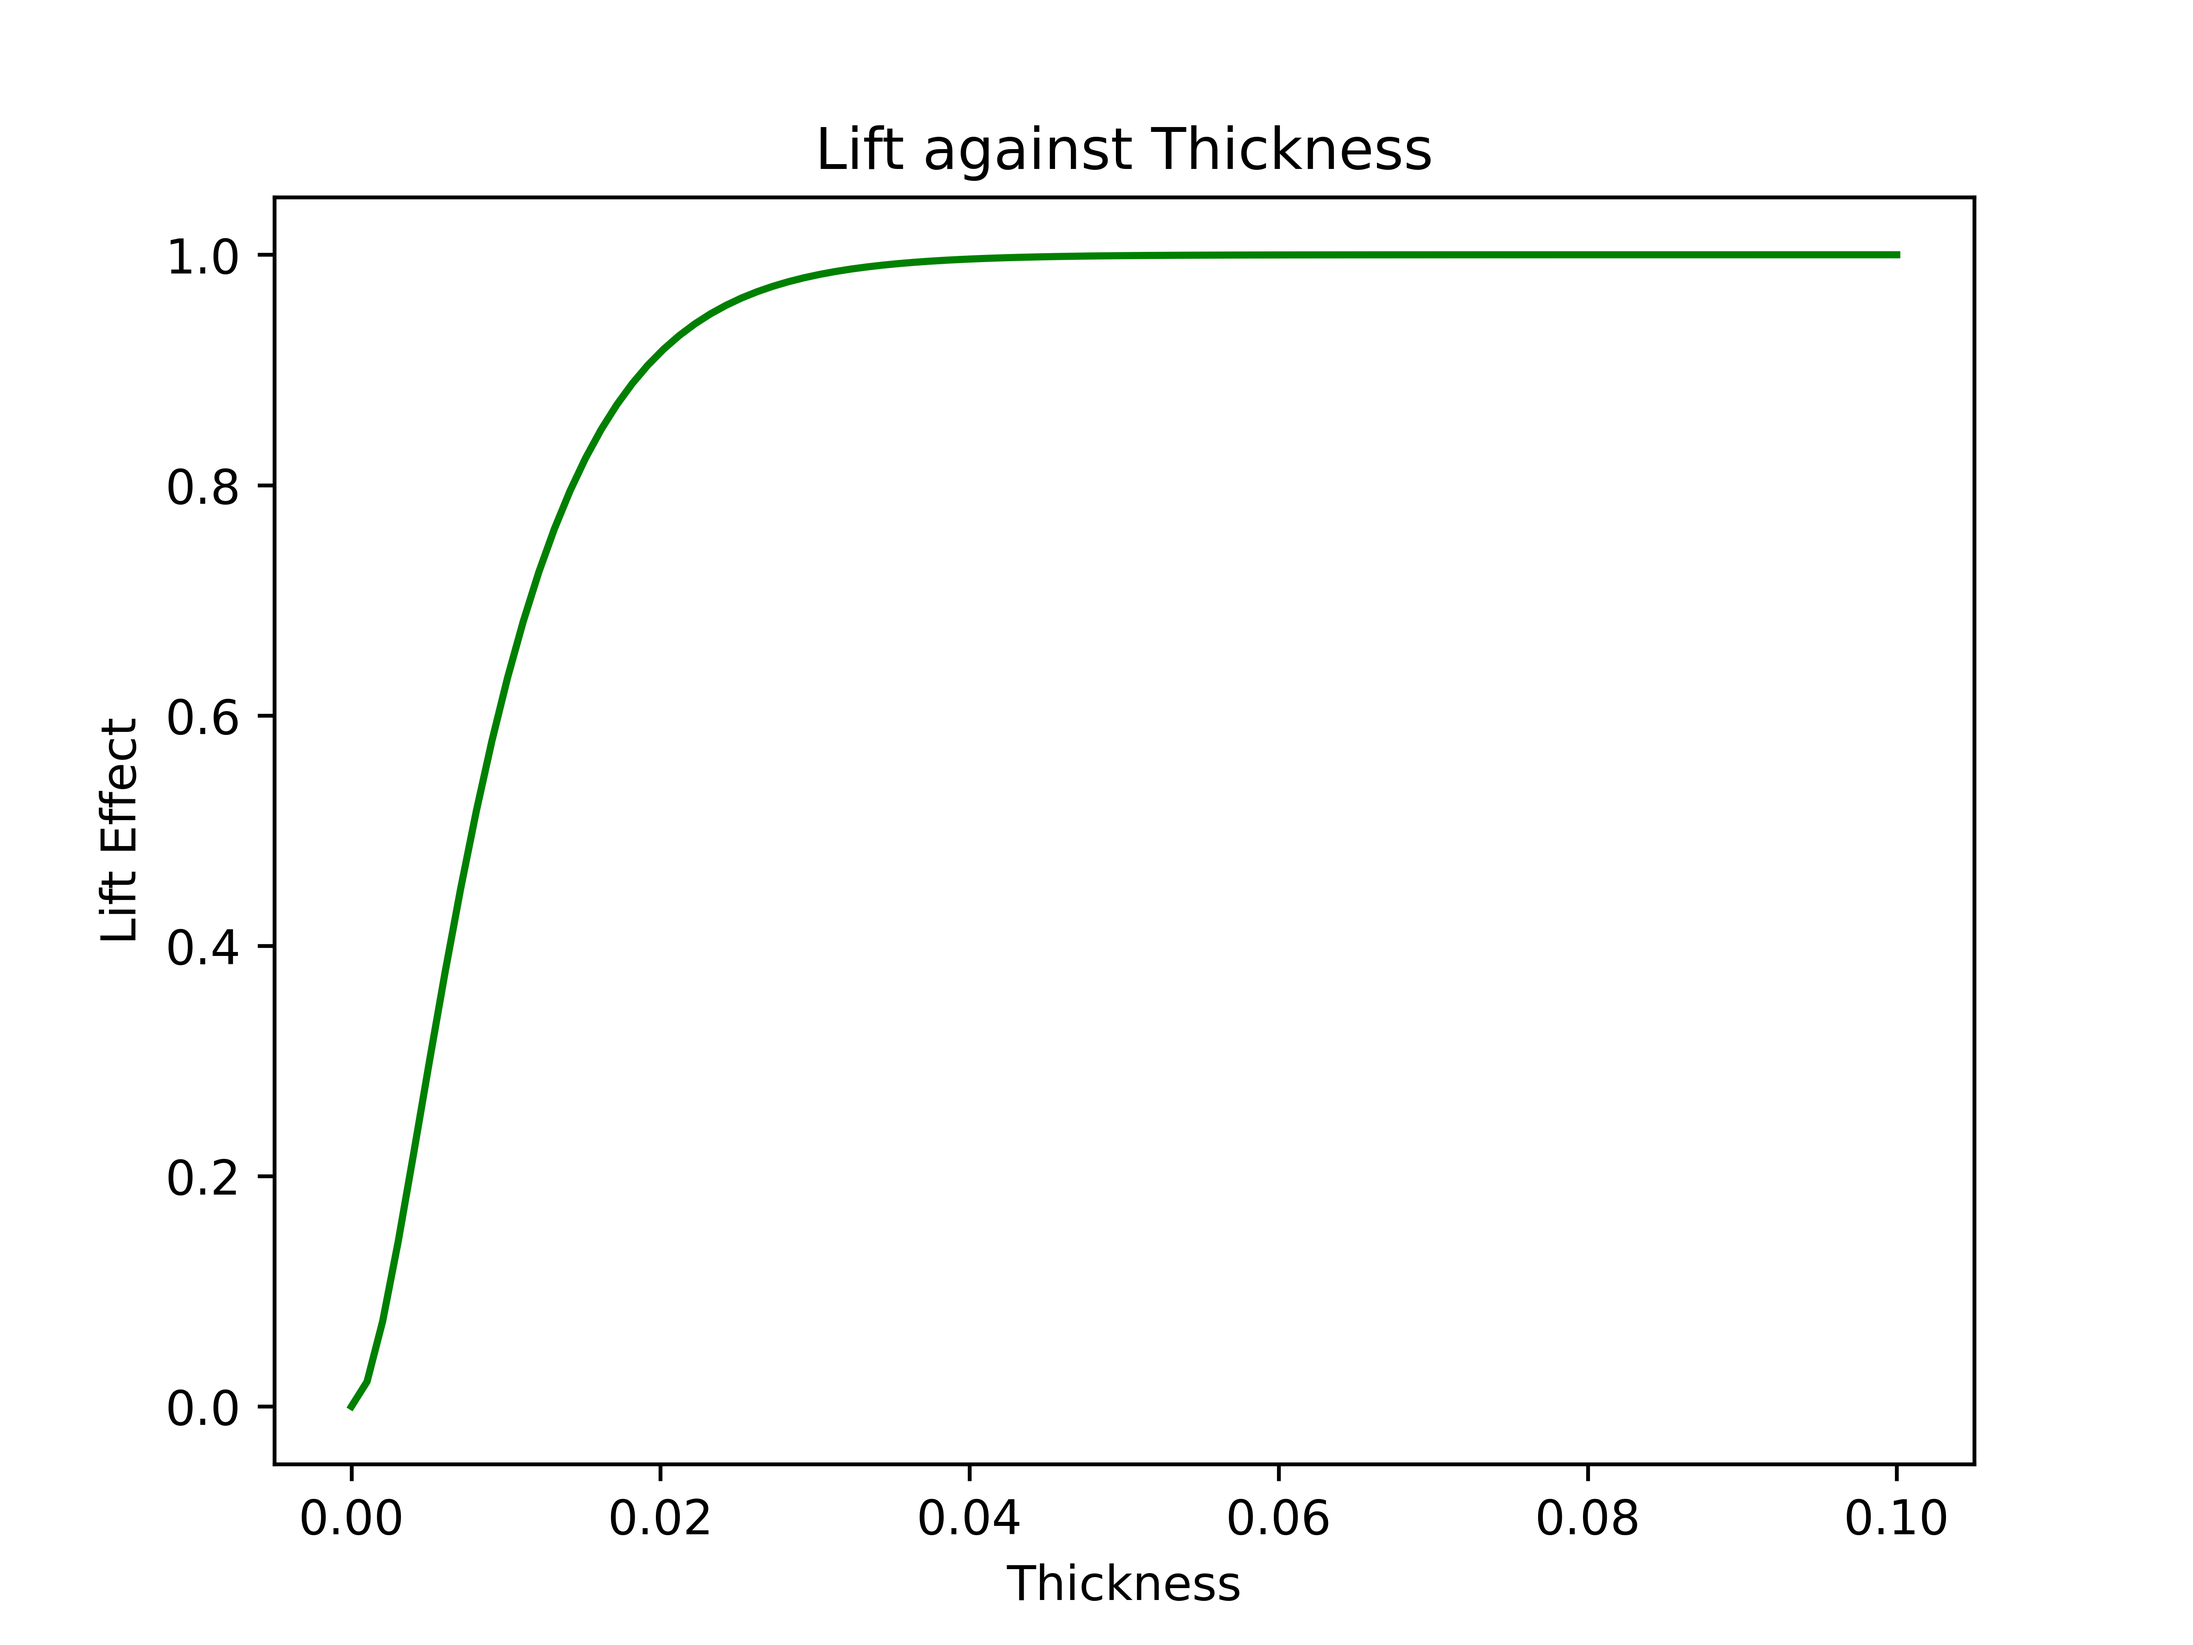
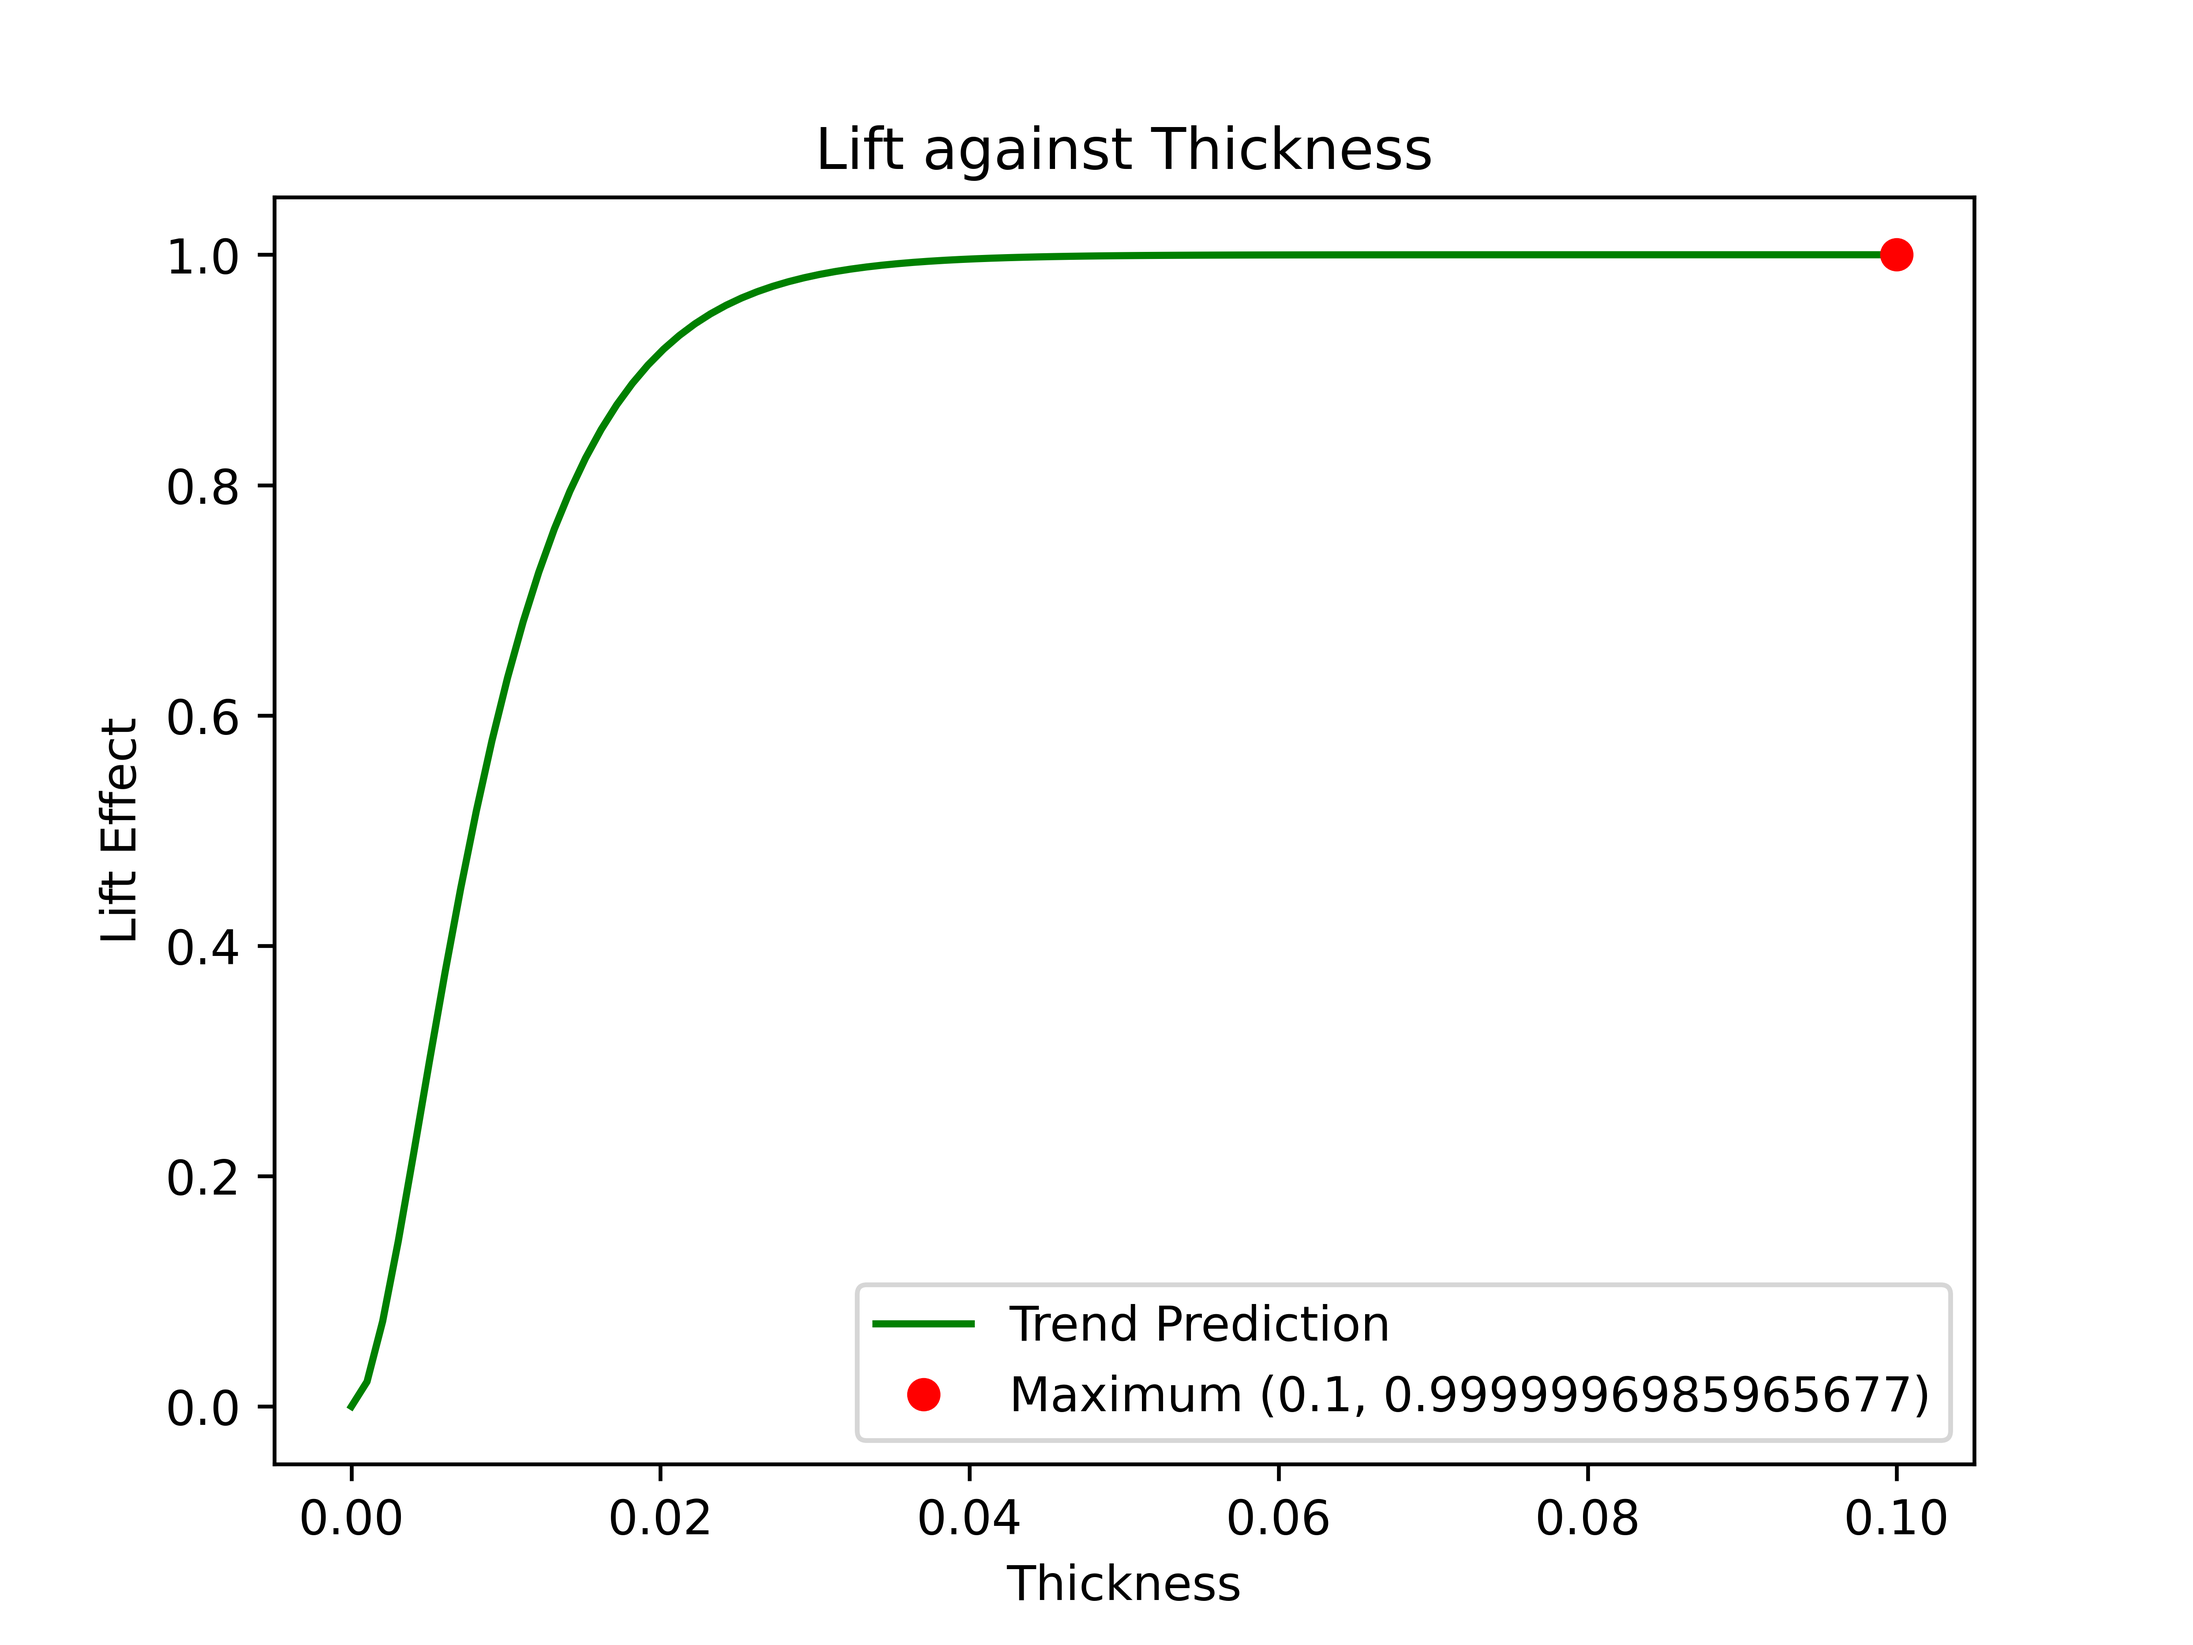
maximum indicator

diff --git a/halbach_analysis/plotting_functions.py b/halbach_analysis/plotting_functions.py
@@ -46,13 +46,24 @@ def create_plot(function_input, x_min, x_max, resolution, *extra_inputs, y_min=N
 
 
 def array_plot(x_values, y_values, y_min=None, y_max=None, graph_title='title', x_title='x',
-               y_title='y', colour_input='navy'):
+               y_title='y', colour_input='navy', show_maximum=False):
     """
-    Will plot a range of x values and y values.
+    This function plots a range of x values and y values. It has optional features to set the y
+        axis limits. Additionally can plot the maximum of the curve.
 
-    Returns
-    -------
-    0
+    Parameters:
+    x_values (numpy.ndarray): The array of x values.
+    y_values (numpy.ndarray): The array of y values.
+    y_min (float, optional): The minimum limit for the y-axis. If not provided, the limit is set automatically.
+    y_max (float, optional): The maximum limit for the y-axis. If not provided, the limit is set automatically.
+    graph_title (str, optional): The title of the graph. Default is 'title'.
+    x_title (str, optional): The label for the x-axis. Default is 'x'.
+    y_title (str, optional): The label for the y-axis. Default is 'y'.
+    colour_input (str, optional): The color of the plot. Default is 'navy'.
+    show_maximum (bool, optional): If True, the maximum point is plotted and labeled. Default is False.
+
+    Returns:
+    int: 0 if the plot is successful, 1 otherwise.
     """
 
     fig = plt.figure()
@@ -70,6 +81,12 @@ def array_plot(x_values, y_values, y_min=None, y_max=None, graph_title='title', 
 
     try:
         axes.plot(x_values, y_values, color=colour_input, label='Trend Prediction')
+        if show_maximum:
+            max_y_index = np.argmax(y_values)
+            max_y = y_values[max_y_index]
+            max_x = x_values[max_y_index]
+            axes.plot(max_x, max_y, 'ro', label=f'Maximum ({max_x}, {max_y})')
+        plt.legend()
     except Exception as e:
         print(f"An error occurred: {e}")
         return 1

diff --git a/halbach_analysis/optimum_lift_density.py b/halbach_analysis/optimum_lift_density.py
@@ -40,7 +40,7 @@ def main():
 
     # plot results
     array_plot(thicknesses, lift_effects, y_min=None, y_max=None, graph_title='Lift against Thickness', x_title='Thickness',
-               y_title='Lift Effect', colour_input='Green')
+               y_title='Lift Effect', colour_input='Green', show_maximum=True)
     array_plot(thicknesses, masses, y_min=100, y_max=150, graph_title='Mass against Thickness', x_title='Thickness',
                y_title='Mass', colour_input='Red')
     return 0

diff --git a/README.md b/README.md
@@ -1,7 +1,9 @@
 # Halbach-Analysis
 Projects to analyse how parameters affect the "lift effect" of halbach arrays in Magnetic Levitation contexts.
 
-These codes were written in the context of the Hyperloop Manchester project https://www.linkedin.com/company/hyperloop-manchester/mycompany/
+These codes were written in the context of the Hyperloop Manchester project
+https://hyperloop-manchester.com/
+https://www.linkedin.com/company/hyperloop-manchester/mycompany/
 Here we are investigating what effects changing the dimensions of our Halbach array will have on our pod.
 
 
